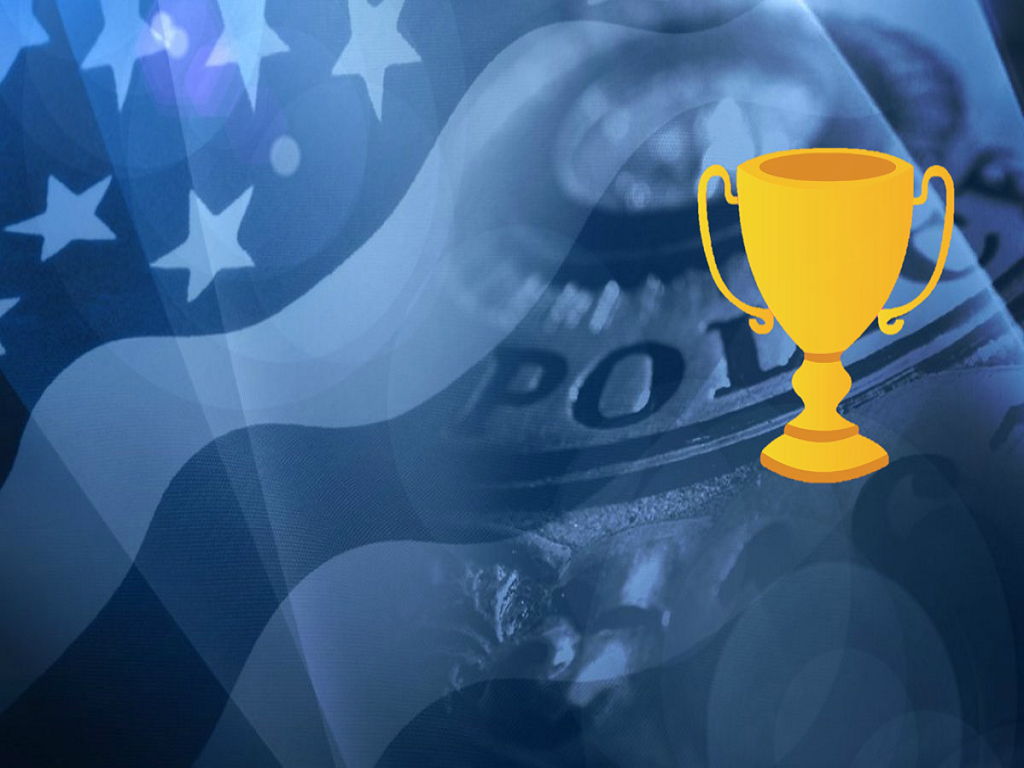
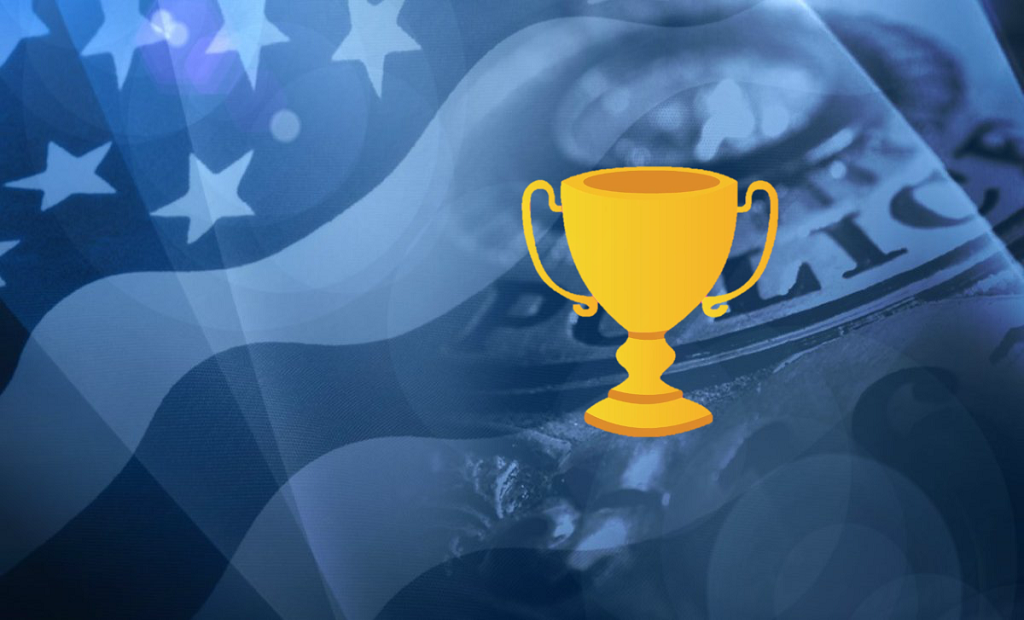
Image update and adjustment- Scoreboard

Changed region(s): [[0.5, 0.1839, 0.9375, 0.7048]]

diff --git a/GameServer/Game/ScoreboardWorld.java b/GameServer/Game/ScoreboardWorld.java
@@ -4,7 +4,7 @@ public class ScoreboardWorld extends World
 {
     public ScoreboardWorld(ArrayList<Score> users)
     {   
-        super(1024, 768, 1); 
+        super(1024, 620, 1); 
         prepare();
         addObject(new Scoreboard(800, 600, users), getWidth() *2/ 5, getHeight() / 2); 
     }
